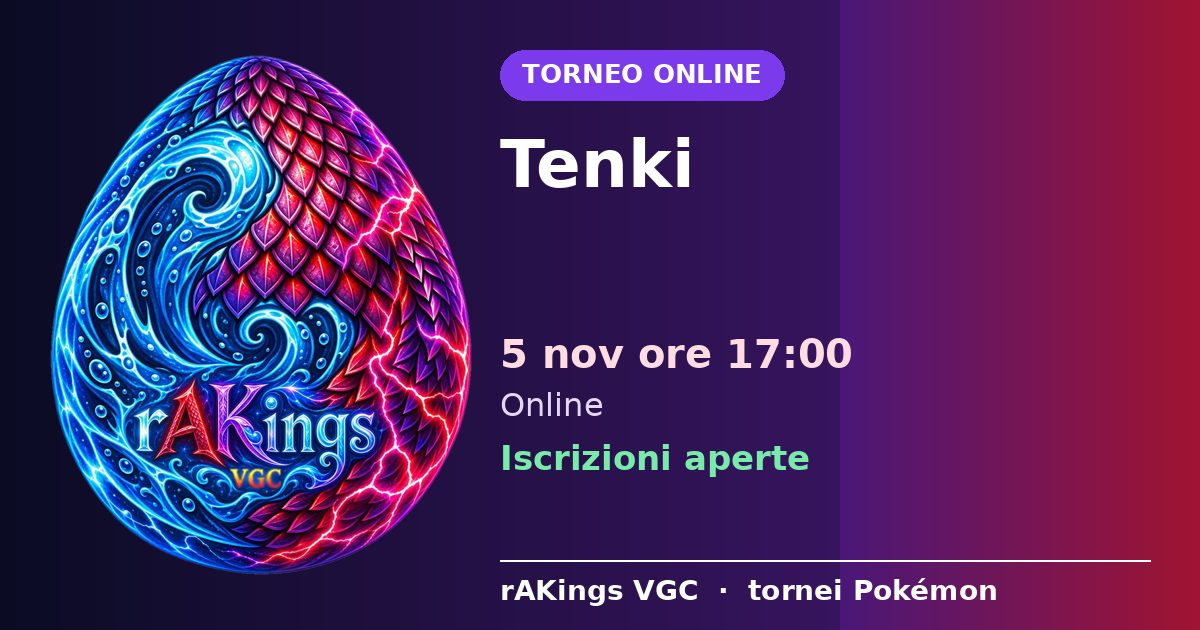
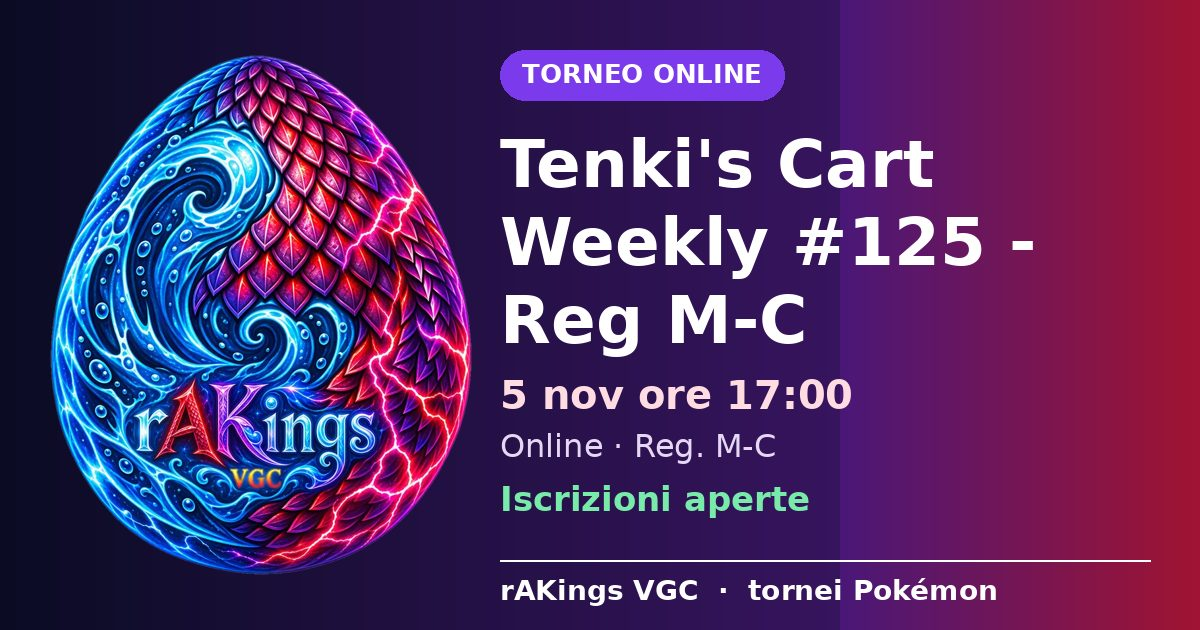
Aggiorna tornei

diff --git a/e/8tad0w.html b/e/8tad0w.html
@@ -1,12 +1,12 @@
 <!doctype html>
-<html lang="it"><head><meta charset="utf-8"><title>Tenki · rAKings VGC</title>
+<html lang="it"><head><meta charset="utf-8"><title>Tenki&#x27;s Cart Weekly #125 - Reg M-C · rAKings VGC</title>
 <meta name="viewport" content="width=device-width,initial-scale=1"><meta name="robots" content="noindex">
 <meta property="og:type" content="website"><meta property="og:site_name" content="rAKings VGC">
-<meta property="og:title" content="Tenki · rAKings VGC"><meta property="og:description" content="Online · 5 nov ore 17:00">
+<meta property="og:title" content="Tenki&#x27;s Cart Weekly #125 - Reg M-C · rAKings VGC"><meta property="og:description" content="Online · 5 nov ore 17:00 · Reg. M-C">
 <meta property="og:url" content="https://rakings.github.io/VGCrAKings/e/8tad0w.html"><meta property="og:image" content="https://rakings.github.io/VGCrAKings/e/8tad0w.jpg">
 <meta property="og:image:width" content="1200"><meta property="og:image:height" content="630">
-<meta name="twitter:card" content="summary_large_image"><meta name="twitter:title" content="Tenki · rAKings VGC">
-<meta name="twitter:description" content="Online · 5 nov ore 17:00"><meta name="twitter:image" content="https://rakings.github.io/VGCrAKings/e/8tad0w.jpg">
+<meta name="twitter:card" content="summary_large_image"><meta name="twitter:title" content="Tenki&#x27;s Cart Weekly #125 - Reg M-C · rAKings VGC">
+<meta name="twitter:description" content="Online · 5 nov ore 17:00 · Reg. M-C"><meta name="twitter:image" content="https://rakings.github.io/VGCrAKings/e/8tad0w.jpg">
 <link rel="canonical" href="https://rakings.github.io/VGCrAKings/e/8tad0w.html">
 <script>location.replace("../index.html#e=8tad0w")</script></head>
 <body style="font-family:system-ui,sans-serif;background:#1d0b0d;color:#fff;text-align:center;padding:40px 16px">

diff --git a/e/lq6r33.html b/e/lq6r33.html
@@ -1,0 +1,13 @@
+<!doctype html>
+<html lang="it"><head><meta charset="utf-8"><title>Semanal VGC Pokémon Alfenas #1 · rAKings VGC</title>
+<meta name="viewport" content="width=device-width,initial-scale=1"><meta name="robots" content="noindex">
+<meta property="og:type" content="website"><meta property="og:site_name" content="rAKings VGC">
+<meta property="og:title" content="Semanal VGC Pokémon Alfenas #1 · rAKings VGC"><meta property="og:description" content="Online · 8 nov ore 18:00">
+<meta property="og:url" content="https://rakings.github.io/VGCrAKings/e/lq6r33.html"><meta property="og:image" content="https://rakings.github.io/VGCrAKings/e/lq6r33.jpg">
+<meta property="og:image:width" content="1200"><meta property="og:image:height" content="630">
+<meta name="twitter:card" content="summary_large_image"><meta name="twitter:title" content="Semanal VGC Pokémon Alfenas #1 · rAKings VGC">
+<meta name="twitter:description" content="Online · 8 nov ore 18:00"><meta name="twitter:image" content="https://rakings.github.io/VGCrAKings/e/lq6r33.jpg">
+<link rel="canonical" href="https://rakings.github.io/VGCrAKings/e/lq6r33.html">
+<script>location.replace("../index.html#e=lq6r33")</script></head>
+<body style="font-family:system-ui,sans-serif;background:#1d0b0d;color:#fff;text-align:center;padding:40px 16px">
+<p>Apro rAKings VGC…</p><p><a style="color:#ff6b78" href="../index.html#e=lq6r33">Apri il torneo nell'app</a></p></body></html>
